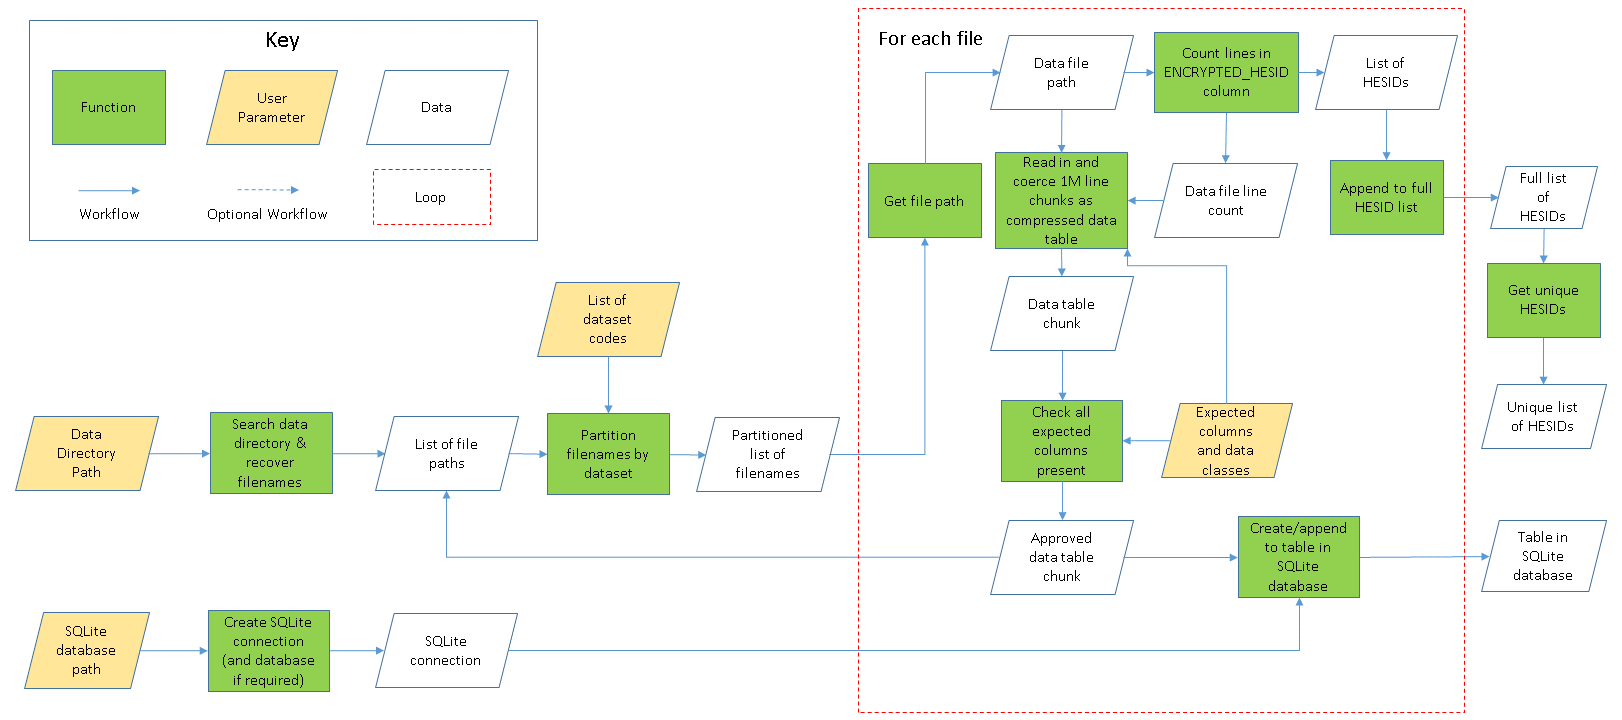
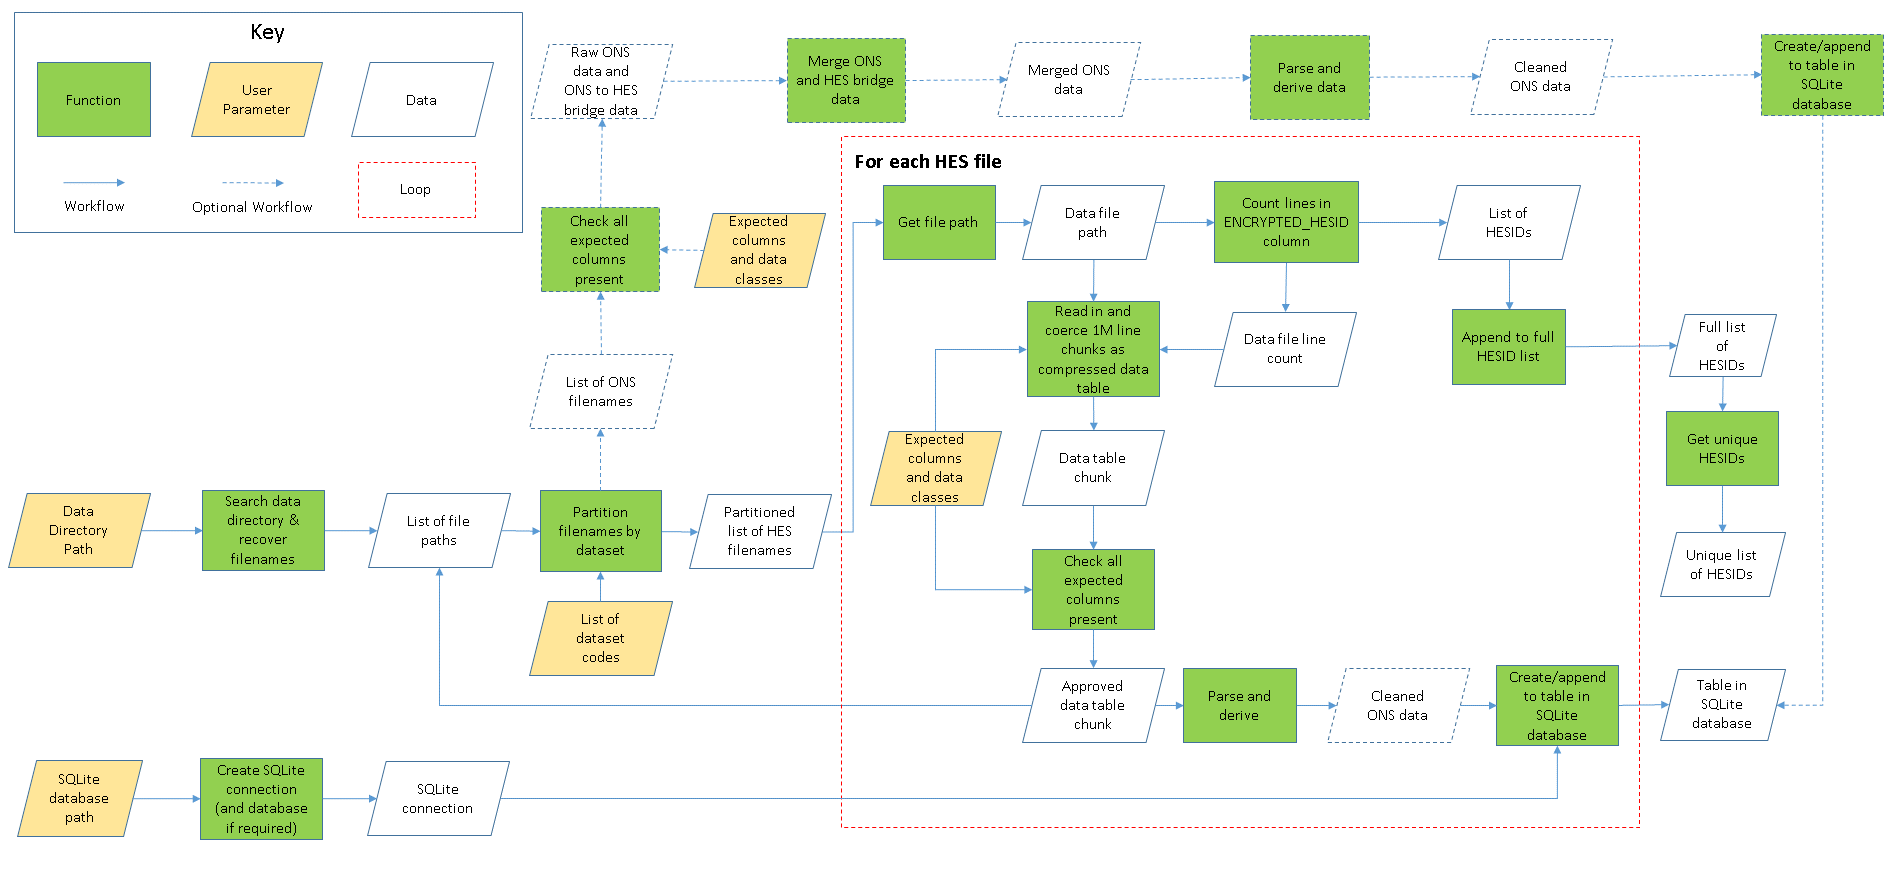
sprint 3

diff --git a/README.md b/README.md
@@ -8,7 +8,7 @@ analysis-ready datasets for a defined programme of analyses.
 
 ## Project Description
 
-[Hospital Episode Statistics (HES)](https://digital.nhs.uk/data-and-information/data-tools-and-services/data-services/hospital-episode-statistics) is a database containing 
+[Hospital Episode Statistics (HES)](link to be added) is a database containing 
 details of all hosptial admissions, A&E attendances and outpatient appointments 
 at NHS hospitals in England.
 
@@ -26,7 +26,7 @@ pre-approved analysis projects work with the cleaned data sets.
 We are planning to use HES data linked to Civil Registrations (deaths) covering
 the last 10 years as well as quarterly data updated for the next three years. 
 Our data application has been approved by the NHS Digital [Data Access Request 
-Service (DARS)](https://digital.nhs.uk/services/data-access-request-service-dars) and development of this pipeline has now 
+Service (DARS)](link to be added) and development of this pipeline has now 
 commenced.
 
 The data will be accessed in The Health Foundation's Secure Data Environment; a 
@@ -45,39 +45,50 @@ refer to the [process document](doc/process.md).
 
 ## Installation
 
-Download the HES Pipeline by either 
-downloading or [cloning the repo](https://github.com/HFAnalyticsLab/HES_pipeline.git).
+Download the HES Pipeline by either downloading or 
+[cloning the repo](https://github.com/HFAnalyticsLab/HES_pipeline.git).
 
 ## Requirements
 
 The HES pipeline was built under R version 3.6.2 -- "Dark and Stormy Night".
 
 The following R packages are required to run the HES pipeline:
-*  data.table (1.12.0)
+*  data.table (1.12.2)
 *  tidyverse (1.2.1)
 *  DBI (1.0.0)
-*  logger
-*  tidylog
-*  plyr
+*  plyr (1.8.4)
+*  tidylog (0.2.0)
+*  furrr (0.1.0)
+*  logger (0.1)
 
 ## Usage
 
 Currently the pipeline is designed to run in an RStudio session. From the R
 console compile the code:
 
-`> source("load_data.R")`
+`> source("pipeline.R")`
 
-Then call `pipeline()` from pipeline.R, providing as arguments a path to the data directory, a 
-path to a directory for an SQLite database, a vector of dataset codes and a path 
-to a csv with expected columns, inlcuding dataset codes and data types, if required. The data 
-will be processed and written to the database. N.B. This is a slow process and takes up a fair 
-amount of memory to run.
+Then call `pipeline()`, providing as arguments a path to the data directory, a 
+path to a directory for an SQLite database, a vector of dataset codes, a path 
+to a csv with expected columns, inlcuding dataset codes and data types, an 
+optional vector of the number of rows to be read at a time per datasets, and,
+if required,and a boolean to enable coercion. The data will be processed and 
+written to the database. N.B. This is a slow process and takes up a fair amount 
+of memory to run.
 
 Example run:
 
-`> pipeline("/home/user/raw-data/". "/home/user/database-dir/", c("FOO", "BAR"),
-"/home/user/expected_columns.csv")`
+`> pipeline(data_path = "/home/user/raw-data/", 
+            database_path = "/home/user/database-dir/", 
+            data_set_codes = c("FOO", "BAR"), 
+            chunk_sizes = c(2000000, 5000000), 
+            expected_headers_file = "/home/user/expected_columns.csv", 
+            coerce = TRUE)`
 
 ## License
 
+<<<<<<< Updated upstream
 This project is licensed under the [MIT License](https://github.com/HFAnalyticsLab/HES_pipeline/blob/master/LICENSE)
+=======
+This project is licensed under the [MIT License](LICENSE)
+>>>>>>> Stashed changes

diff --git a/doc/process.md b/doc/process.md
@@ -1,7 +1,8 @@
-The HES pipeline tool has four user parameters; a path to a directory where the
-data is stored, a location where an SQLite database can be created or is 
-located, a vector of dataset codes and the path to a CSV of expected columns 
-(see [Usage](README.md#usage) for more information). 
+The HES pipeline tool has five user parameters; a path to a directory where the
+data is stored, a path to a location where an SQLite database can be created or is 
+located, a vector of dataset codes, an integer vector of the number of rows per 
+chunk for each dataset, the path to a CSV of expected columns and a boolean to 
+enable coercion (see [Usage](README.md#usage) for more information). 
 
 1. Load a csv of expteced column names, dataset label and data type 
 ([for example](tests/dummy_data/example_expected.csv)).
@@ -9,7 +10,13 @@ located, a vector of dataset codes and the path to a CSV of expected columns
 3. Create a SQLite connection and database at the database path.
 4. Using a set list of dataset codes, the filenames are partitioned into their 
 respective datasets.
-5. Iterate over each dataset:
+5. If ONS datasets present:
+    1. Read in the data, coercing data types
+    2. Confirm all headers are present
+    3. Merge ONS and bridge data (required to combine ONS with HES data)
+    4. Parse data
+    5. Derive new variables
+5. Iterate over each HES dataset:
     1. Iterate over each file in a dataset:
         1. Read in the ID column for the file
         2. Count the number of rows
@@ -19,10 +26,13 @@ respective datasets.
             1. Read in the data, coercing data types
             2. Confirm all headers are present
             3. Write the data to a table in the SQLite database
-            4. Log file name, number of records and processing time
+            4. Parse data
+            5. Derive new variables
+            6. Log file name, number of records and processing time
     2. Concatenate the list of IDs
     3. Log dataset name, total number of records and total processing time
-6. Store IDs as a table in the SQLite database
+
+~~6. Store IDs as a table in the SQLite database~~
 
 The following diagram describes this process as a flowchart. Functions are 
 marked as green squares, user parameters to be input to the pipeline are gold
